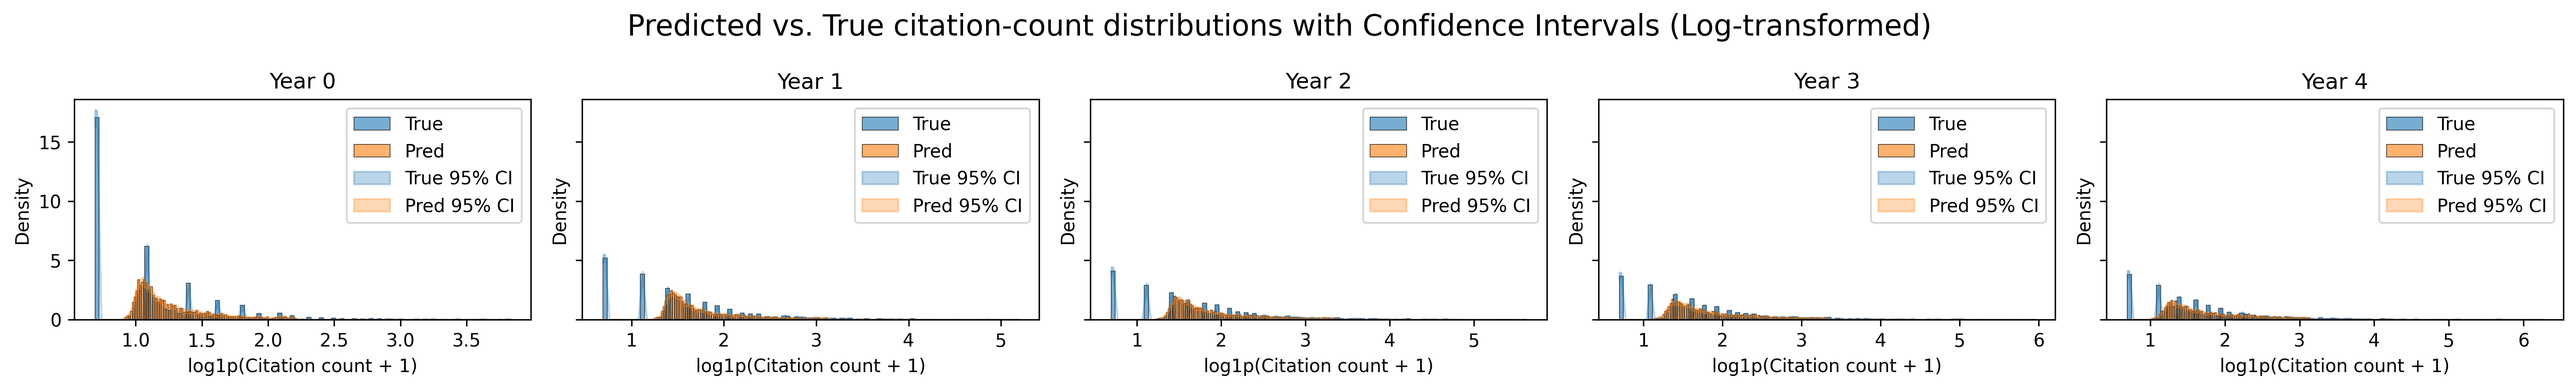
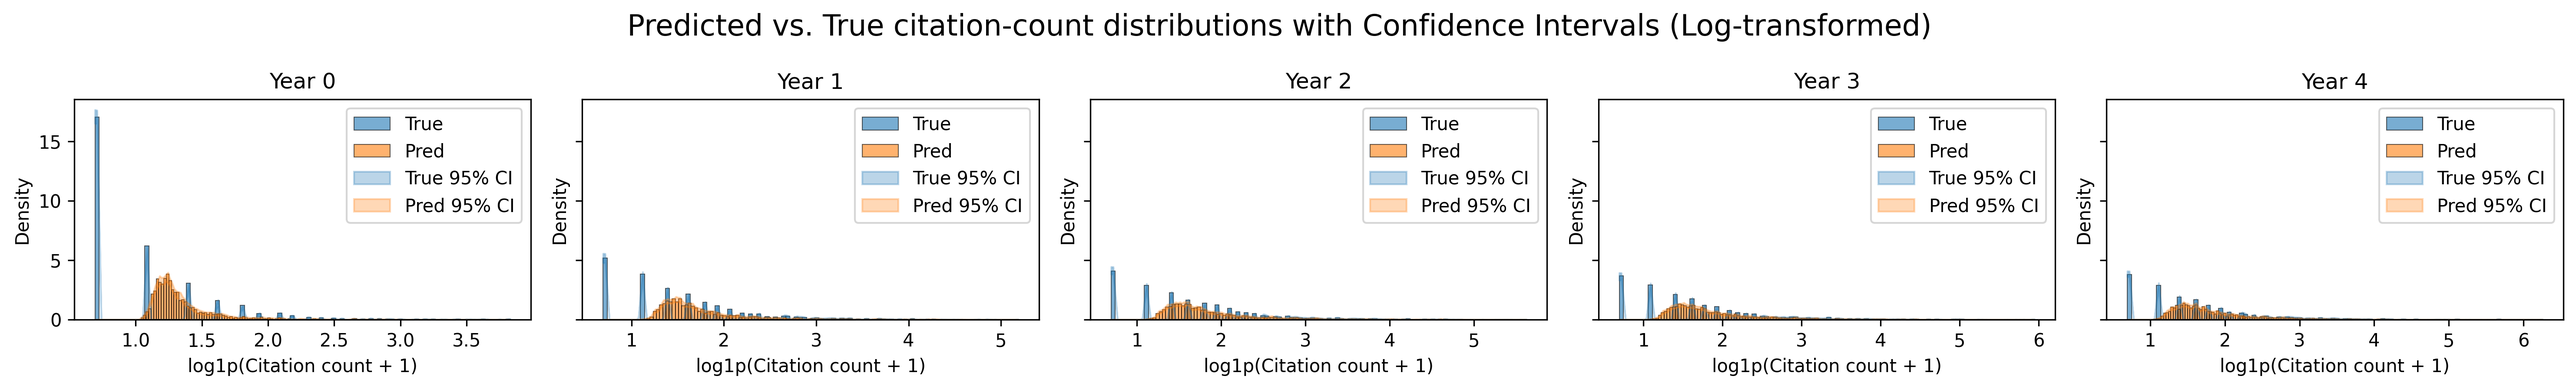
fix vanishing gradients

diff --git a/models/rgcn_encoder.py b/models/rgcn_encoder.py
@@ -1,6 +1,7 @@
 from typing import Dict
 import torch
 import torch.nn as nn
+import torch.nn.functional as F # Import for LeakyReLU
 from torch_geometric.nn import HeteroConv, SAGEConv
 
 
@@ -20,38 +21,52 @@ class RGCNEncoder(nn.Module):
     ):
         super().__init__()
         self.num_layers = num_layers
-        self.dropout = nn.Dropout(dropout)
+        self.hidden_dim = hidden_dim # Store hidden_dim
+        self.dropout_layer = nn.Dropout(dropout) # Renamed to avoid conflict with method name
 
         self.lins = nn.ModuleDict()
+        self.norms_initial = nn.ModuleDict() # For initial projection normalization
         # project every node type to hidden_dim (if needed)
         for ntype, in_dim in in_dims.items():
             if in_dim != hidden_dim:
-                self.lins[ntype] = nn.Linear(in_dim, hidden_dim, bias=False)
+                # Changed bias to True to allow for non-zero output from zero input
+                self.lins[ntype] = nn.Linear(in_dim, hidden_dim, bias=True)
+            self.norms_initial[ntype] = nn.BatchNorm1d(hidden_dim) # Add BatchNorm for initial projection
 
         self.convs = nn.ModuleList()
-        for _ in range(num_layers):
+        self.norms_conv = nn.ModuleDict() # For normalization after each conv layer
+        for i in range(num_layers):
             conv = HeteroConv(
                 { etype: SAGEConv(hidden_dim, hidden_dim)
-                    for etype in metadata[1]         # edge types
+                    for etype in metadata[1] 
                 },
                 aggr="mean",
             )
             self.convs.append(conv)
+            # Add a BatchNorm layer for each node type after each convolution
+            # This applies to the *output* of the convolution for each node type
+            for ntype in metadata[0]: # Assuming metadata[0] provides all node types
+                 self.norms_conv[f'layer_{i}_{ntype}'] = nn.BatchNorm1d(hidden_dim)
+
 
         self.reset_parameters()
 
     def reset_parameters(self):
         for lin in self.lins.values():
             lin.reset_parameters()
+        for norm in self.norms_initial.values():
+            norm.reset_parameters()
         for conv in self.convs:
             conv.reset_parameters()
+        for norm in self.norms_conv.values():
+            norm.reset_parameters()
 
     def forward(self, data):
         """
         Args
         ----
         data : torch_geometric.data.HeteroData
-            must provide   data[edge_type].edge_index   and node features.
+            must provide data[edge_type].edge_index and node features.
         Returns
         -------
         x_dict : Dict[str, Tensor]   node_type -> embeddings
@@ -59,47 +74,70 @@ class RGCNEncoder(nn.Module):
         # 1) initial linear projection (shared across years)
         x_dict = {}
         for ntype in data.node_types:
+            h = None
             if hasattr(data[ntype], "x"):
                 h = data[ntype].x
-            elif hasattr(data[ntype], "x_title_emb"):        # fallback for papers
+            elif hasattr(data[ntype], "x_title_emb"): # fallback for papers
                 h = data[ntype].x_title_emb
             else:
-                raise KeyError(f"No feature tensor (.x) for node type '{ntype}'")
+                raise KeyError(f"No feature tensor (.x or .x_title_emb) for node type '{ntype}'")
 
-            if ntype in self.lins:                           # project if needed
+            if h is None: # Handle case where no features are found
+                # If no features, initialize with zeros but allow the model to learn.
+                # This case should ideally be caught by the KeyError above if no features are present.
+                # However, if features are present but all zeros, then the linear layer with bias=True
+                # and subsequent normalization will help.
+                h = torch.zeros(data[ntype].num_nodes, self.hidden_dim, device=h.device) 
+            
+            if ntype in self.lins: # project if needed
                 h = self.lins[ntype](h)
+            
+            # Apply initial normalization for all node types
+            if h.numel() > 0: # Only apply BatchNorm if there are nodes
+                h = self.norms_initial[ntype](h)
             x_dict[ntype] = h
 
-        # 2) stacked relation-specific GCN layers
-        for hetero_layer in self.convs:                      # type: HeteroConv
-            out_dict = {k: [] for k in x_dict.keys()}        # collect msg per dst
+        for i, hetero_layer in enumerate(self.convs): # type: HeteroConv
+            out_dict = {k: [] for k in x_dict.keys()} # collect msg per dst
 
             for etype_str, subconv in hetero_layer.convs.items():
-                # for torch 2.3.0, {src, rel, dst = etype_str.split('__')} work; but for more advanced version, we need to use src, rel, dst = etype_str
-                # write a simple logic here
+                # Handle different etype_str formats (tuple vs. string)
                 if isinstance(etype_str, str):
                     src, rel, dst = etype_str.split('__')
                 else:
-                    src, rel, dst = etype_str                
+                    src, rel, dst = etype_str # Assume it's already a tuple (src, rel, dst)
+                               
+                # Ensure edge_index exists and is not empty before processing
+                if (src, rel, dst) not in data.edge_types:
+                    continue # Skip if this edge type does not exist in the current graph
+                    
                 edge_index = data[(src, rel, dst)].edge_index.to(x_dict[src].device)
+
+                # Skip message passing if any involved tensor is empty
                 if (edge_index.numel() == 0
-                    or x_dict[src].size(0) == 0
-                    or x_dict[dst].size(0) == 0):
+                    or x_dict[src].numel() == 0 # Check numel for empty tensors
+                    or x_dict[dst].numel() == 0):
                     continue
                     
-
-                # dummy relation-id vector (because num_relations = 1)
-                # edge_type = edge_index.new_zeros(edge_index.size(1))
-
                 # message passing
                 out = subconv((x_dict[src], x_dict[dst]), edge_index)
                 out_dict[dst].append(out)
 
             # mean-aggregate incoming relations for every destination type
-            x_dict = {
-                ntype: self.dropout(torch.relu(torch.stack(msgs, 0).mean(0)))
-                if len(msgs) > 0 else x_dict[ntype]           # keep old if isolated
-                for ntype, msgs in out_dict.items()
-            }
-
+            # Use LeakyReLU instead of ReLU to prevent dying neurons
+            # Apply BatchNorm after aggregation and activation for each node type
+            new_x_dict = {}
+            for ntype, msgs in out_dict.items():
+                if len(msgs) > 0:
+                    h = torch.stack(msgs, 0).mean(0)
+                    h = self.dropout_layer(F.leaky_relu(h, negative_slope=0.01))
+                    
+                    # Apply BatchNorm for the current layer and node type
+                    if h.numel() > 0: # Ensure tensor is not empty
+                        h = self.norms_conv[f'layer_{i}_{ntype}'](h)
+                    new_x_dict[ntype] = h
+                else:
+                    new_x_dict[ntype] = x_dict[ntype] # keep old if isolated
+            x_dict = new_x_dict
+        
         return x_dict

diff --git a/models/full_model.py b/models/full_model.py
@@ -30,7 +30,7 @@ class ImpactModel(nn.Module):
     ):
         super().__init__()
         self.encoder = RGCNEncoder(metadata, in_dims, hidden_dim) # output: keys ('author', 'paper', 'venue'), values: embeddings. (num_nodes_of_that_type, hidden_dim)
-        self.imputer = WeightedImputer(meta_types) # impute to update the new paper embedding.
+        self.imputer = WeightedImputer(meta_types, hidden_dim) # impute to update the new paper embedding.
         self.generator = ImpactRNN(hidden_dim)
         self.beta = beta
         self.hidden_dim = hidden_dim
@@ -303,7 +303,6 @@ class ImpactModel(nn.Module):
             idx_cache[year] = out
             return out
         # --------------------------------------------------------------
-
         seq = []
         for offset in range(self.history - 1, -1, -1):
             yr = current_year_idx - offset
@@ -317,9 +316,13 @@ class ImpactModel(nn.Module):
                     auth_emb = torch.zeros(self.hidden_dim, device=device)
                 else:
                     enc_dict = self.encoder(snapshots[yr])
-                    # auth_emb = enc_dict['author'][ids].mean(0)
-                    auth_emb = torch.zeros(self.hidden_dim, device=device)
-                    # print(f'Using author embedding for year {yr}, the author embedding is {auth_emb}')
+                    # print(enc_dict)
+                    # Use attention mechanism instead of simple mean
+                    auth_embs = enc_dict['author'][ids]  # [num_authors, hidden_dim]
+                    
+                    auth_emb = self.imputer.aggregate_authors_with_attention(auth_embs)
+                    
+
             else:
                 auth_emb = torch.zeros(self.hidden_dim, device=device)
 
@@ -463,14 +466,17 @@ class ImpactModel(nn.Module):
                 for n, (au_list, _) in enumerate(teams):
                     row_idx = _rows_of(yr, au_list)
                     if row_idx.numel() > 0:
-                        author_emb[n] = enc_dict['author'][row_idx].mean(0)
-            # (ii) topic vector (k = 0 receives weight; past steps do not)
+                        # Use attention mechanism instead of simple mean
+                        author_embs = enc_dict['author'][row_idx]  # [num_authors, hidden_dim]
+                        author_emb[n] = self.imputer.aggregate_authors_with_attention(author_embs)
+
+            # (ii) topic vector (rest remains the same)
             topic_vec_batch = torch.stack([t[1] for t in teams]).to(device)
             if self.input_feature_model == 'drop topic':
                 topic_vec_batch = torch.zeros_like(topic_vec_batch)
 
-            v_k = ( self.imputer.w['author'] * author_emb +
-                    self.imputer.w['self']   * topic_vec_batch )
+            v_k = (self.imputer.w['author'] * author_emb +
+                self.imputer.w['self'] * topic_vec_batch)
             seq_steps.append(v_k)
 
         V_p = torch.stack(seq_steps, dim=1)                 # [N, 5, H]

diff --git a/models/imputer.py b/models/imputer.py
@@ -7,12 +7,19 @@ class WeightedImputer(nn.Module):
     v_{p,t} = Σ_m  w_m  ·  mean_{i∈N_p,t^m} u_{i,t}
     One scalar weight per metadata type (author, venue, reference, …).
     """
-    def __init__(self, meta_types): # meta_types: list of metadata types (e.g. ['author', 'venue'])
+    def __init__(self, meta_types, hidden_dim): # meta_types: list of metadata types (e.g. ['author', 'venue'])
         super().__init__()
+        self.hidden_dim = hidden_dim
         self.w = nn.ParameterDict({
             m: nn.Parameter(torch.tensor(1.0)) for m in meta_types
         })
         self.w['self'] = nn.Parameter(torch.tensor(1.0))
+        self.author_attention = nn.Sequential(
+            nn.Linear(hidden_dim, hidden_dim // 2),
+            nn.ReLU(),
+            nn.Linear(hidden_dim // 2, 1),
+            nn.Softmax(dim=0)
+        )
 
     @staticmethod
     def collect_neighbours(data, paper_id: int, device):
@@ -49,7 +56,27 @@ class WeightedImputer(nn.Module):
     # ======================================================================
 
 
-
+    def aggregate_authors_with_attention(self, author_embeddings):
+        """
+        Apply attention mechanism to aggregate author embeddings.
+        
+        Args:
+            author_embeddings: Tensor [num_authors, hidden_dim]
+            
+        Returns:
+            Tensor [hidden_dim] - attention-weighted author representation
+        """
+        if author_embeddings.size(0) == 1:
+            # Single author, no need for attention
+            return author_embeddings.squeeze(0)
+        
+        # Compute attention weights for each author
+        attention_weights = self.author_attention(author_embeddings)  # [num_authors, 1]
+        
+        # Apply attention weights and sum
+        weighted_authors = (author_embeddings * attention_weights).sum(dim=0)  # [hidden_dim]
+        
+        return weighted_authors
 
     def forward(
         self,
@@ -101,7 +128,13 @@ class WeightedImputer(nn.Module):
             ids = ids[ids < embs[ntype].size(0)]
             if ids.numel() == 0:
                 continue
-            parts.append(self.w[ntype] * embs[ntype][ids].mean(dim=0))
+            if ntype == 'author':
+                # Use attention mechanism for authors
+                author_embeddings = embs[ntype][ids]  # [num_authors, hidden_dim]
+                aggregated_authors = self.aggregate_authors_with_attention(author_embeddings)
+                parts.append(self.w[ntype] * aggregated_authors)
+            else:
+                parts.append(self.w[ntype] * embs[ntype][ids].mean(dim=0))
 
         # --- add the paper’s own embedding --------------------------------
         if topic_vec is not None:

diff --git a/utils/dataset_builder.py b/utils/dataset_builder.py
@@ -168,18 +168,25 @@ def build_snapshot(up_to_year: int, L: int = 5) -> HeteroData:
         except Exception as e:
             print(f'[warn] could not copy embedding row {idx}: {e}')
     # EMB_DIR = '/data/jx4237data/GNNteamingEvaluator/TeamingEvaluator/data_examine/output_embeddings_yearly_oai'
-    EMB_DIR = '/data/output_embeddings_yearly_specter2'
+    EMB_DIR = '/data/jx4237data/GNNteamingEvaluator/TeamingEvaluator/data_examine/SPECTER2_yearly_author_venue_embeddings'
     fn_author = os.path.join(EMB_DIR, f'author_embedding_{up_to_year}.json')
+    if not os.path.isfile(fn_author):
+        fn_author += '.gz'
     if os.path.isfile(fn_author):
-        for aid, vec in json.load(open(fn_author)).items():
-            if aid in AUTH_LIDX_OF:
-                _copy(AUTH_LIDX_OF[aid], vec, x_author)
+        with (gzip.open(fn_author, 'rt') if fn_author.endswith('.gz') else open(fn_author)) as f:
+            for aid, vec in json.load(f).items():
+                if aid in AUTH_LIDX_OF:
+                    _copy(AUTH_LIDX_OF[aid], vec, x_author)
+        print(f'[dataset_builder]   ⇒ loaded {len(AUTH_LIDX_OF)} author embeddings from {fn_author}')
 
-    fn_venue  = os.path.join(EMB_DIR, f'venue_embedding_{up_to_year}.json')
+    fn_venue = os.path.join(EMB_DIR, f'venue_embedding_{up_to_year}.json')
+    if not os.path.isfile(fn_venue):
+        fn_venue += '.gz'
     if os.path.isfile(fn_venue):
-        for ven, vec in json.load(open(fn_venue)).items():
-            if ven in VEN_LIDX_OF:
-                _copy(VEN_LIDX_OF[ven], vec, x_venue)
+        with (gzip.open(fn_venue, 'rt') if fn_venue.endswith('.gz') else open(fn_venue)) as f:
+            for ven, vec in json.load(f).items():
+                if ven in VEN_LIDX_OF:
+                    _copy(VEN_LIDX_OF[ven], vec, x_venue)
 
     data['author'].x = x_author
     data['venue' ].x = x_venue

diff --git a/train.py b/train.py
@@ -64,7 +64,7 @@ def main():
     parser.add_argument("--hidden_dim", type=int, default=50)
     parser.add_argument("--epochs", type=int, default=150, help="Total number of epochs to train for.")
     parser.add_argument("--batch_size", type=int, default=256)  # unused in v1
-    parser.add_argument("--lr", type=float, default=3*1e-2)
+    parser.add_argument("--lr", type=float, default=1e-2)
     parser.add_argument("--beta", type=float, default=.5) # regularization parameter
     parser.add_argument("--device", default="cuda:7" if torch.cuda.is_available() else "cpu")
     parser.add_argument("--cold_start_prob", type=float, default=0.3,
